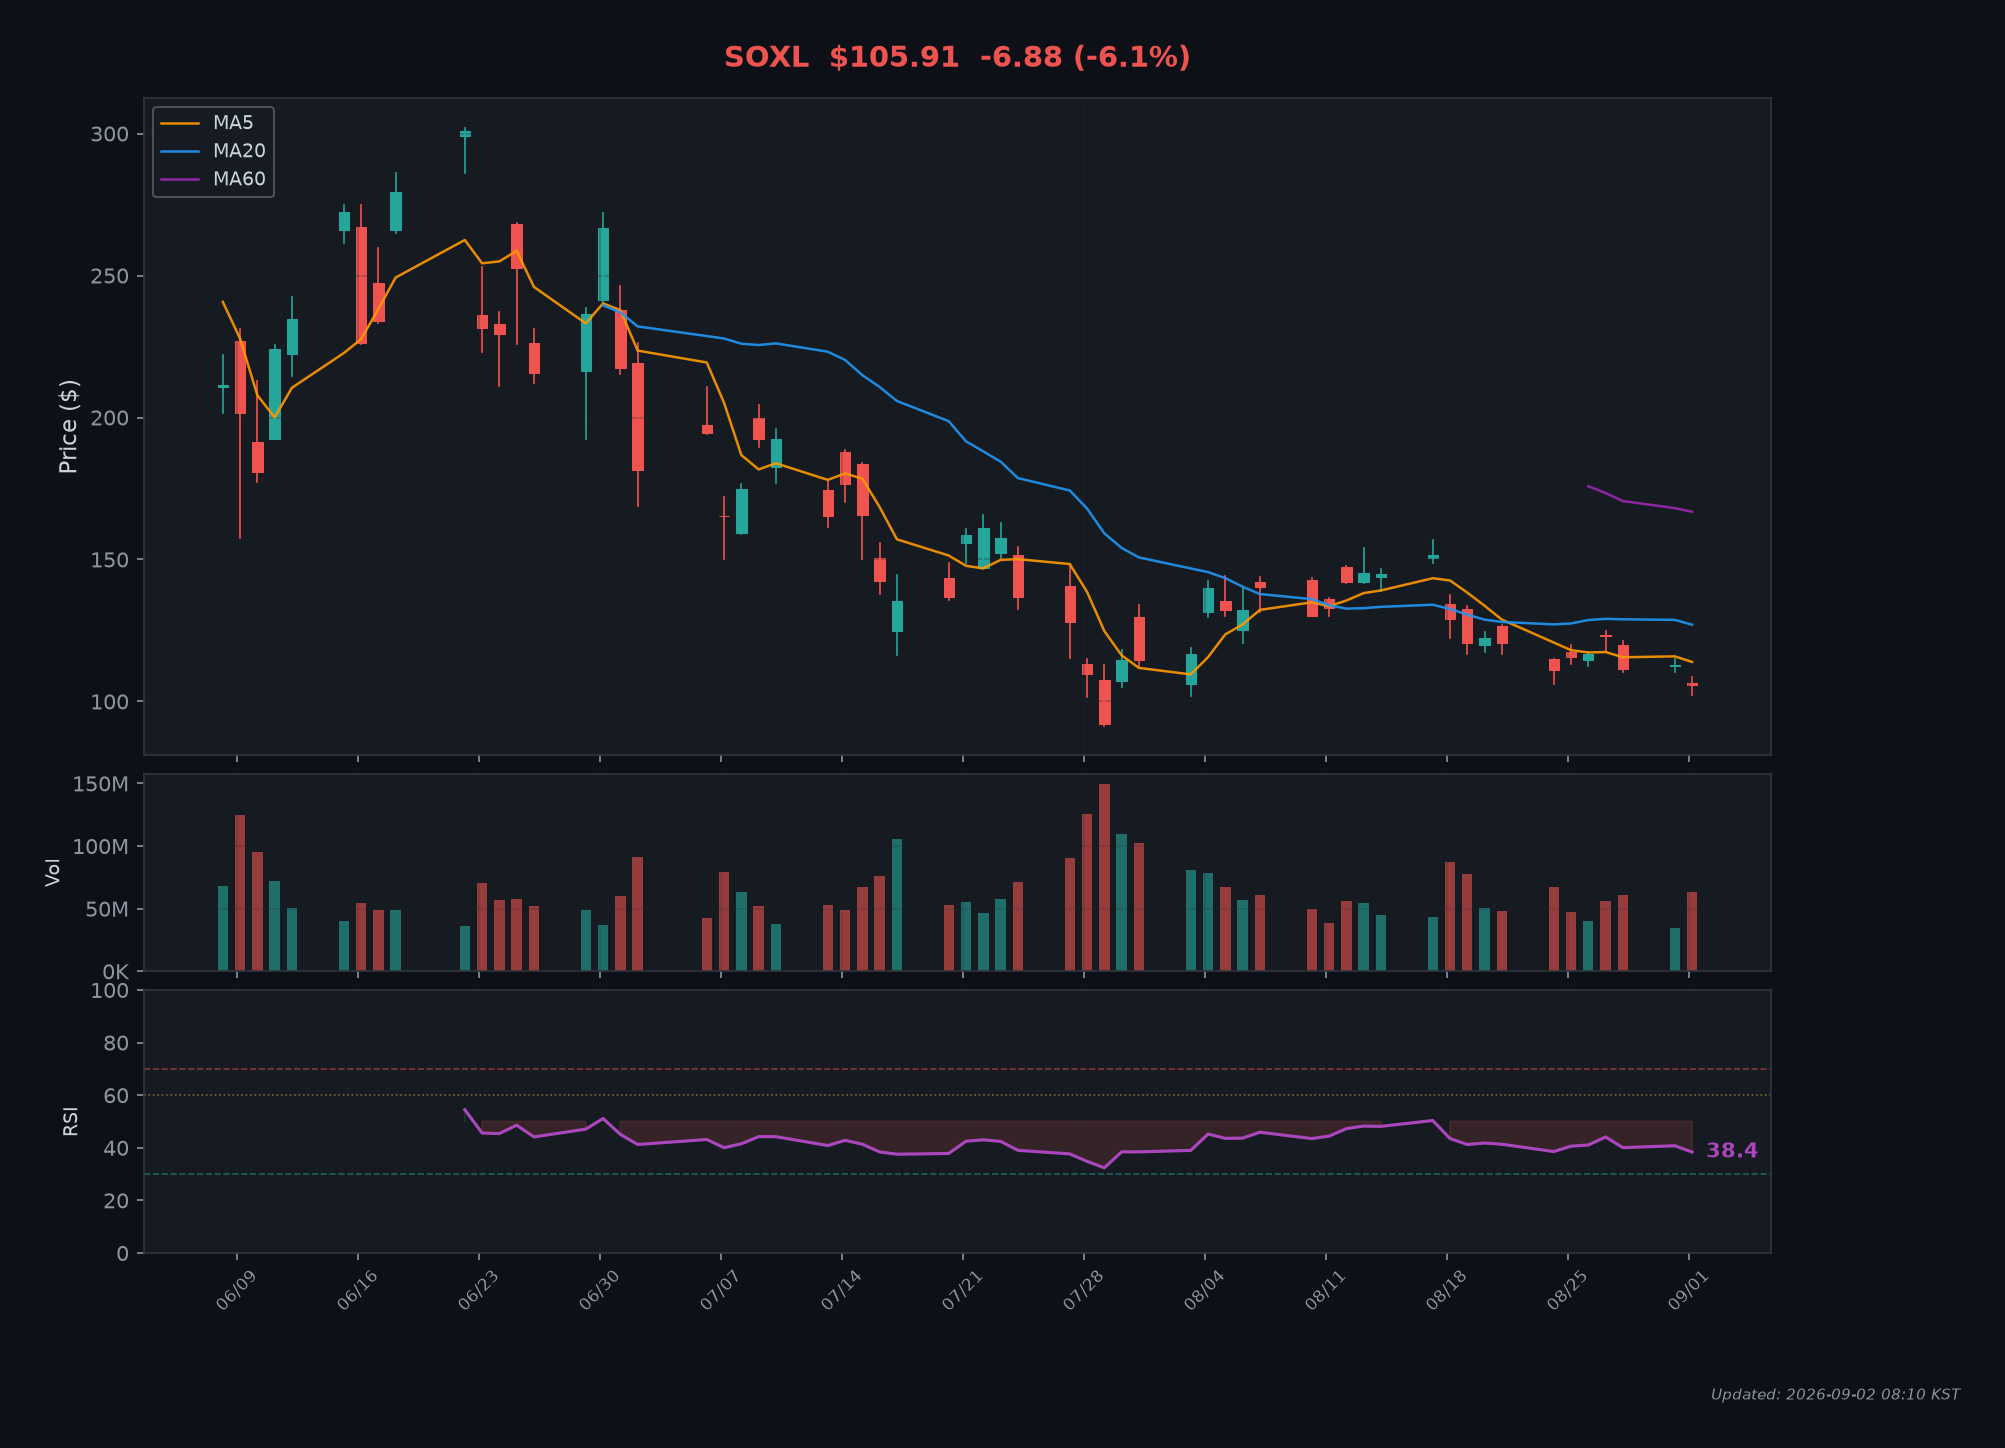
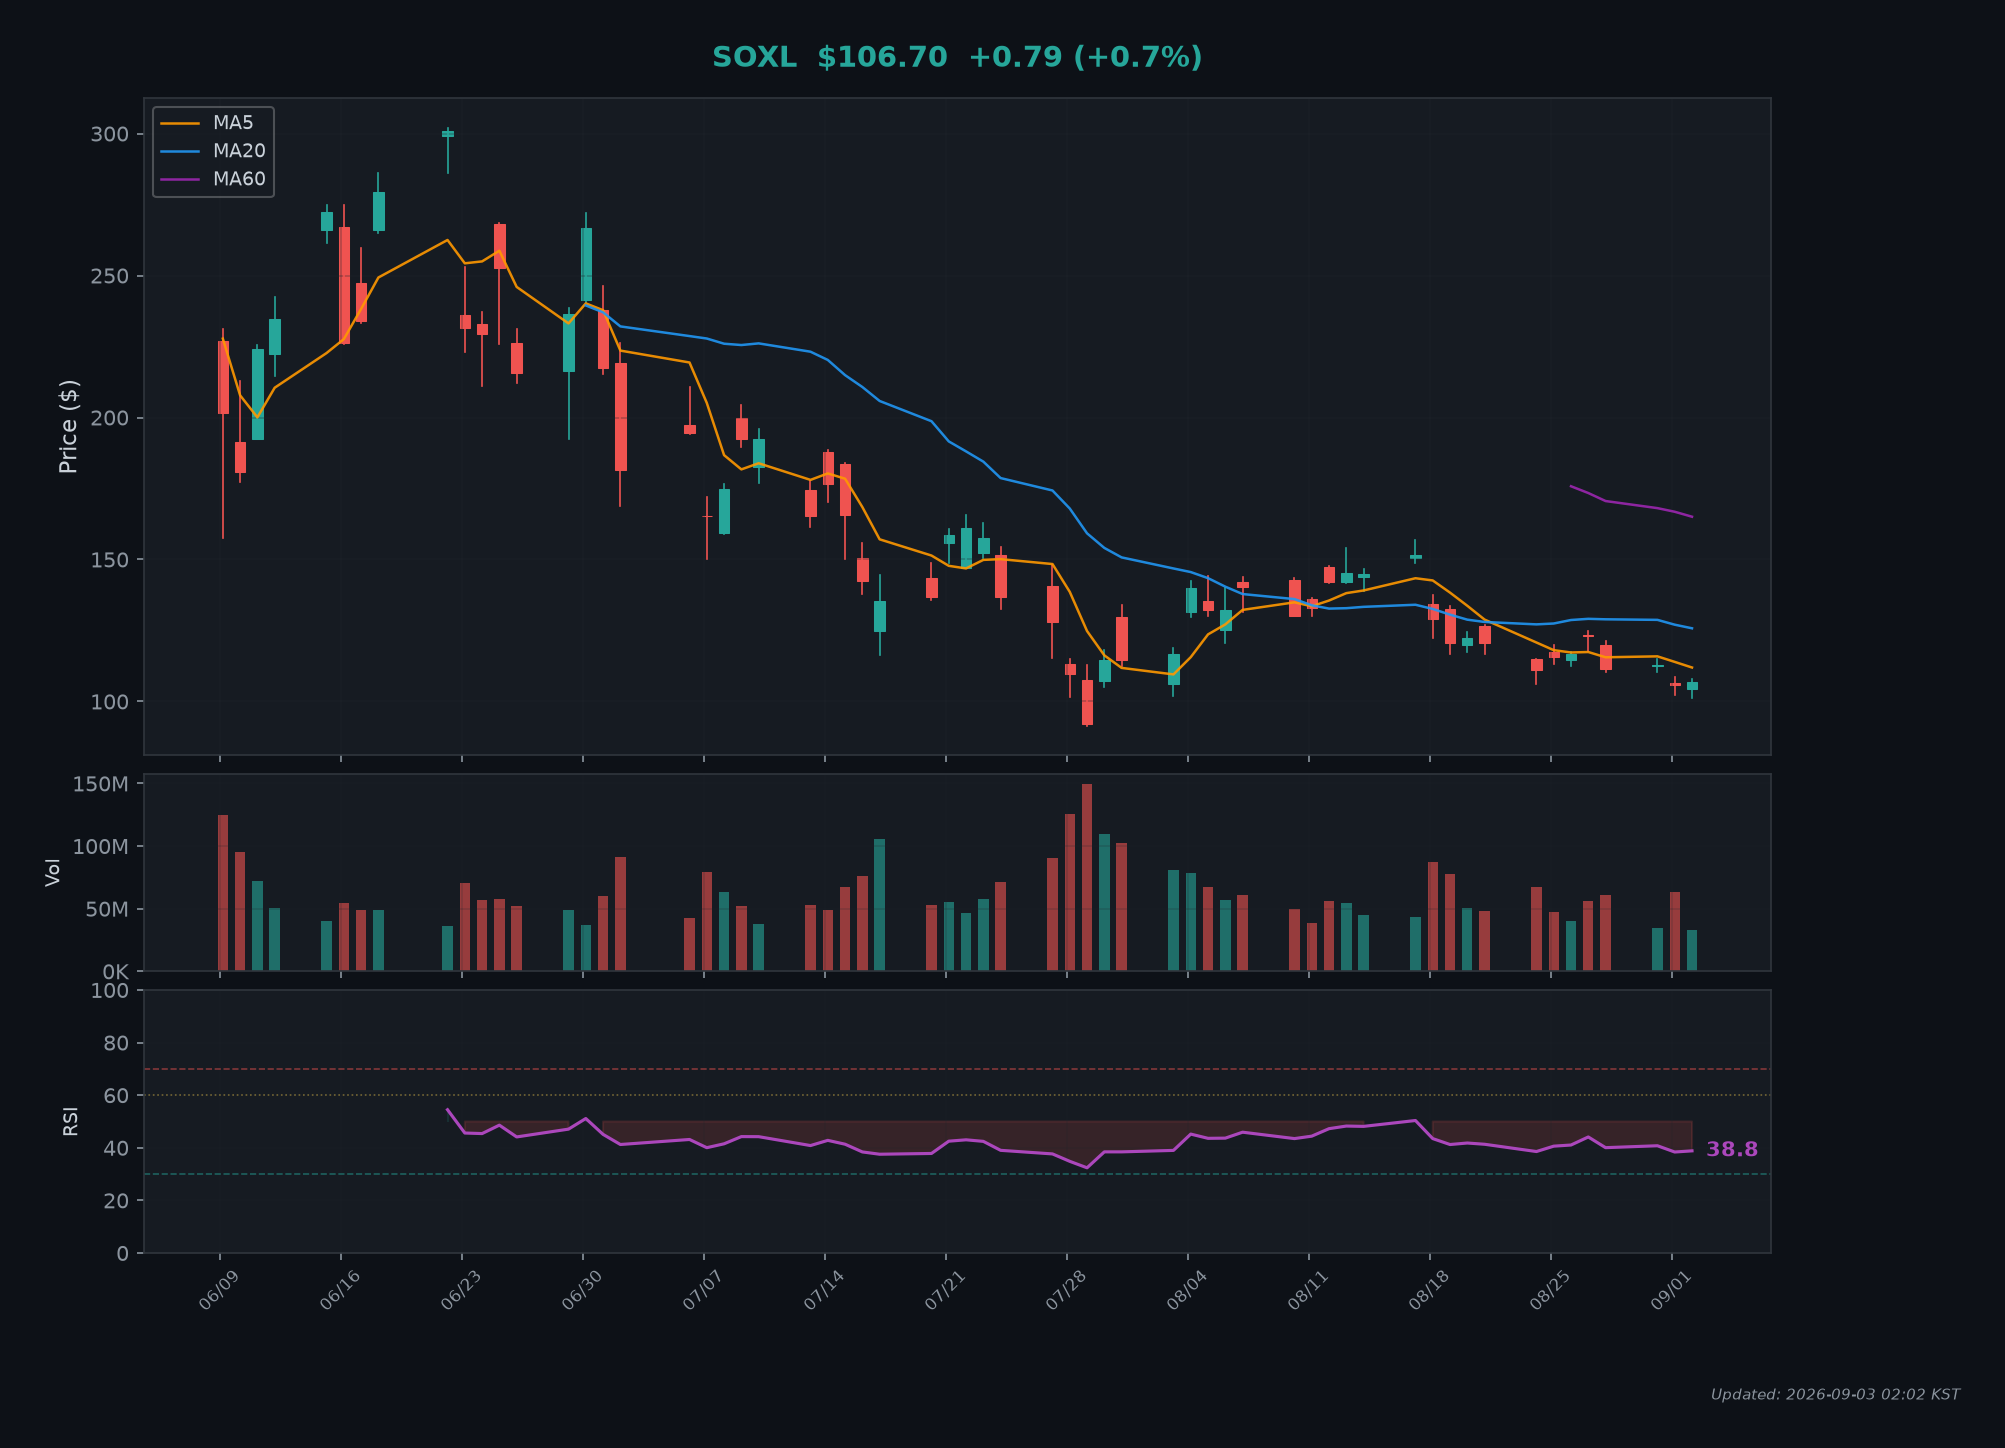
🎯 일일 추천 리포트 2026-09-02

diff --git a/README.md b/README.md
@@ -15,19 +15,19 @@
 | 항목 | 상태 |
 |------|------|
 | 미국 시장 | 🟢 개장중 |
-| 현재 시간 (ET) | 2026-09-01 13:12:09 ET |
-| 요일 | 화요일 |
-| 마지막 갱신 | 2026-09-02 02:12 KST |
+| 현재 시간 (ET) | 2026-09-02 13:02:18 ET |
+| 요일 | 수요일 |
+| 마지막 갱신 | 2026-09-03 02:02 KST |
 
 ---
 
 ## 🎯 오늘의 매수/매도 추천
 
-> 📅 **2026-09-02** 기준 추천 내역
+> 📅 **2026-09-03** 기준 추천 내역
 
 ### 💹 TQQQ
 
-**현재가:** $69.39 📉 -3.5% | **RSI:** 44.97 | **거래량:** 39,865,718
+**현재가:** $69.47 📈 +0.5% | **RSI:** 45.24 | **거래량:** 26,715,500
 
 #### 📊 시뮬레이션 상태
 
@@ -44,13 +44,13 @@
 
 #### 💡 추천 요약
 
-> 🟢 1회차 진입 신호! RSI=44.97 | 시장가 매수 추천 ($100)
+> 🟢 1회차 진입 신호! RSI=45.24 | 시장가 매수 추천 ($100)
 
 #### 🛒 매수 주문
 
 | 방식 | 주문가 | 금액 | 예상 수량 | 비고 |
 |------|--------|------|-----------|------|
-| 🟢 시장가 (1회차 첫 매수) | $69.39 | $100.0 | 1.4411주 | 장중 아무 시점에 1회차 분량 시장가 매수 |
+| 🟢 시장가 (1회차 첫 매수) | $69.47 | $100.0 | 1.4394주 | 장중 아무 시점에 1회차 분량 시장가 매수 |
 
 #### 📉 차트
 
@@ -60,7 +60,7 @@
 
 ### 💹 SOXL
 
-**현재가:** $105.4 📉 -6.5% | **RSI:** 38.63 | **거래량:** 41,532,323
+**현재가:** $106.7 📈 +0.8% | **RSI:** 38.84 | **거래량:** 32,900,944
 
 #### 📊 시뮬레이션 상태
 
@@ -77,13 +77,13 @@
 
 #### 💡 추천 요약
 
-> 🟢 1회차 진입 신호! RSI=38.63 | 시장가 매수 추천 ($100)
+> 🟢 1회차 진입 신호! RSI=38.84 | 시장가 매수 추천 ($100)
 
 #### 🛒 매수 주문
 
 | 방식 | 주문가 | 금액 | 예상 수량 | 비고 |
 |------|--------|------|-----------|------|
-| 🟢 시장가 (1회차 첫 매수) | $105.4 | $100.0 | 0.9487주 | 장중 아무 시점에 1회차 분량 시장가 매수 |
+| 🟢 시장가 (1회차 첫 매수) | $106.7 | $100.0 | 0.9372주 | 장중 아무 시점에 1회차 분량 시장가 매수 |
 
 #### 📉 차트
 
@@ -115,6 +115,6 @@
 
 ---
 
-🤖 *자동 생성됨 | 2026-09-02 02:12 KST | GitHub Actions*
+🤖 *자동 생성됨 | 2026-09-03 02:02 KST | GitHub Actions*
 
 ⚠ **면책 조항**: 본 시스템은 교육/참고 목적이며, 실제 투자 손익에 대한 책임은 사용자에게 있습니다.
